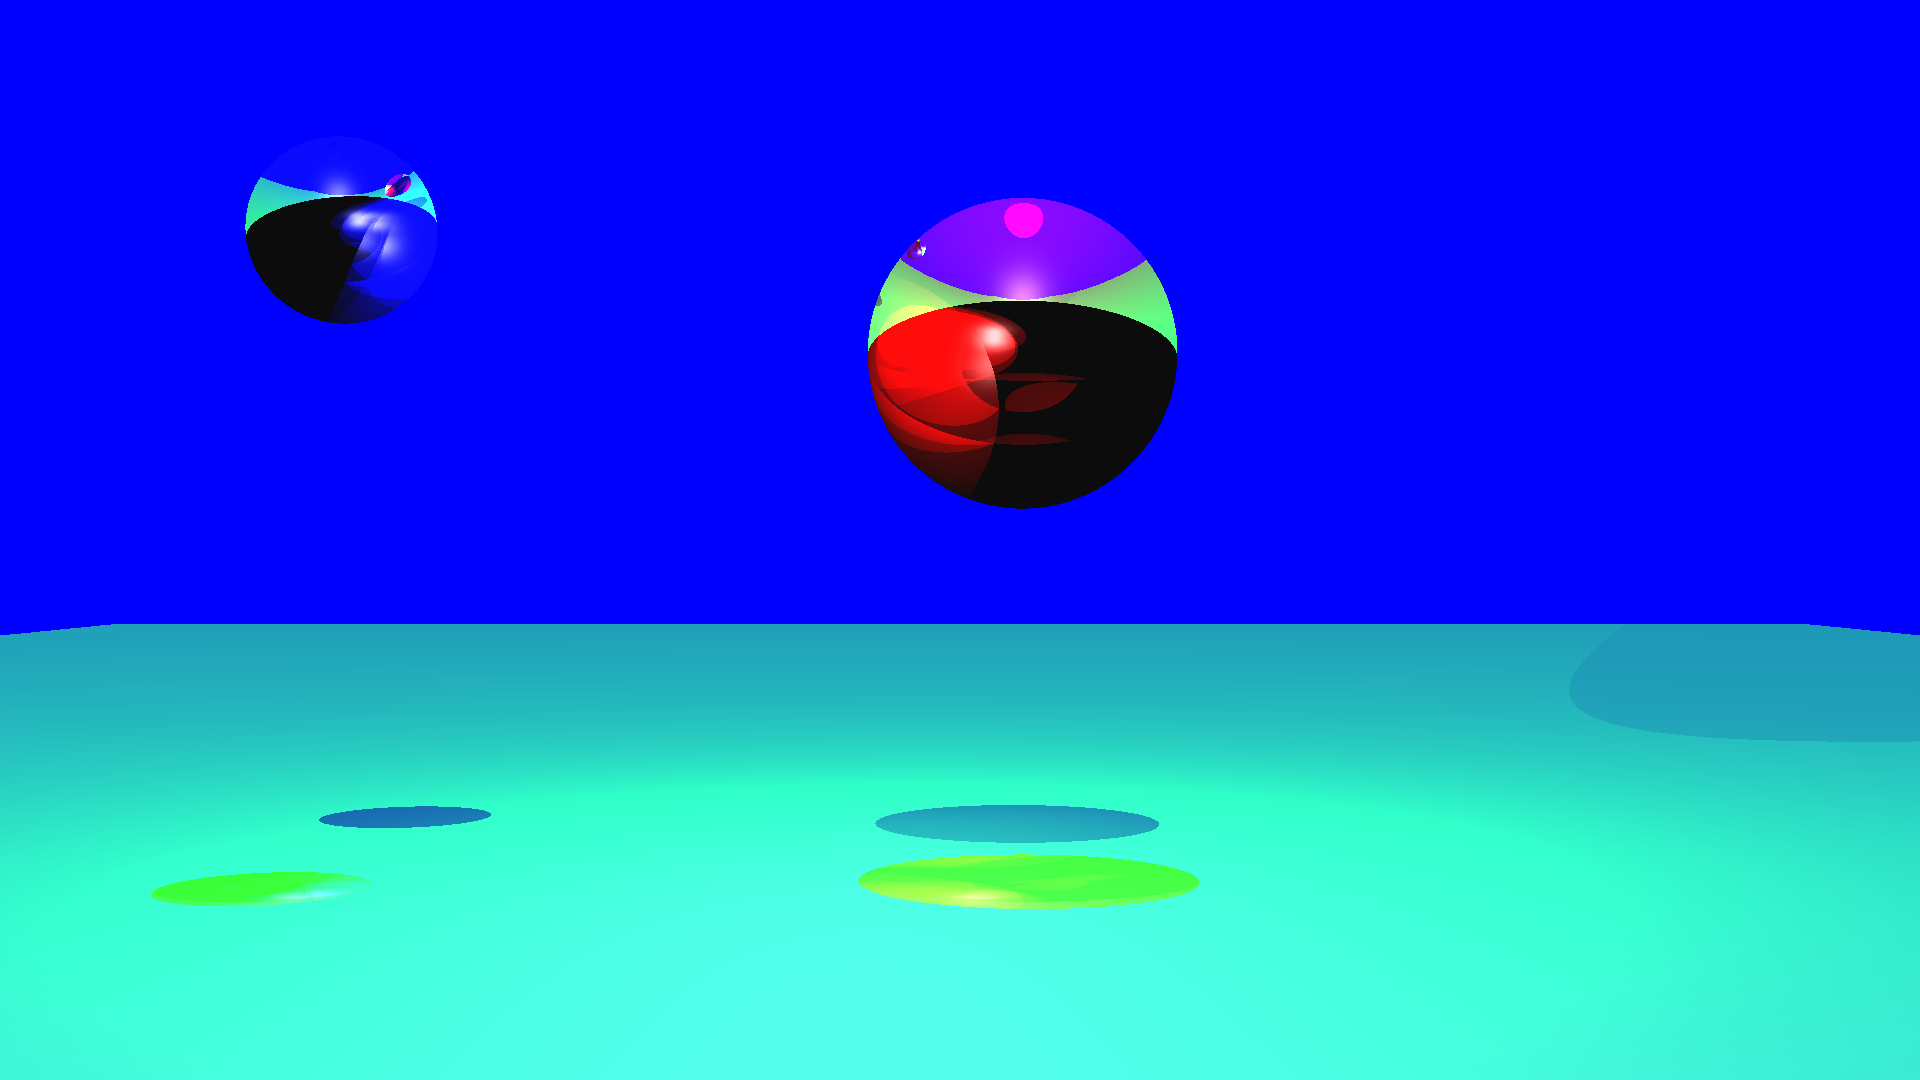
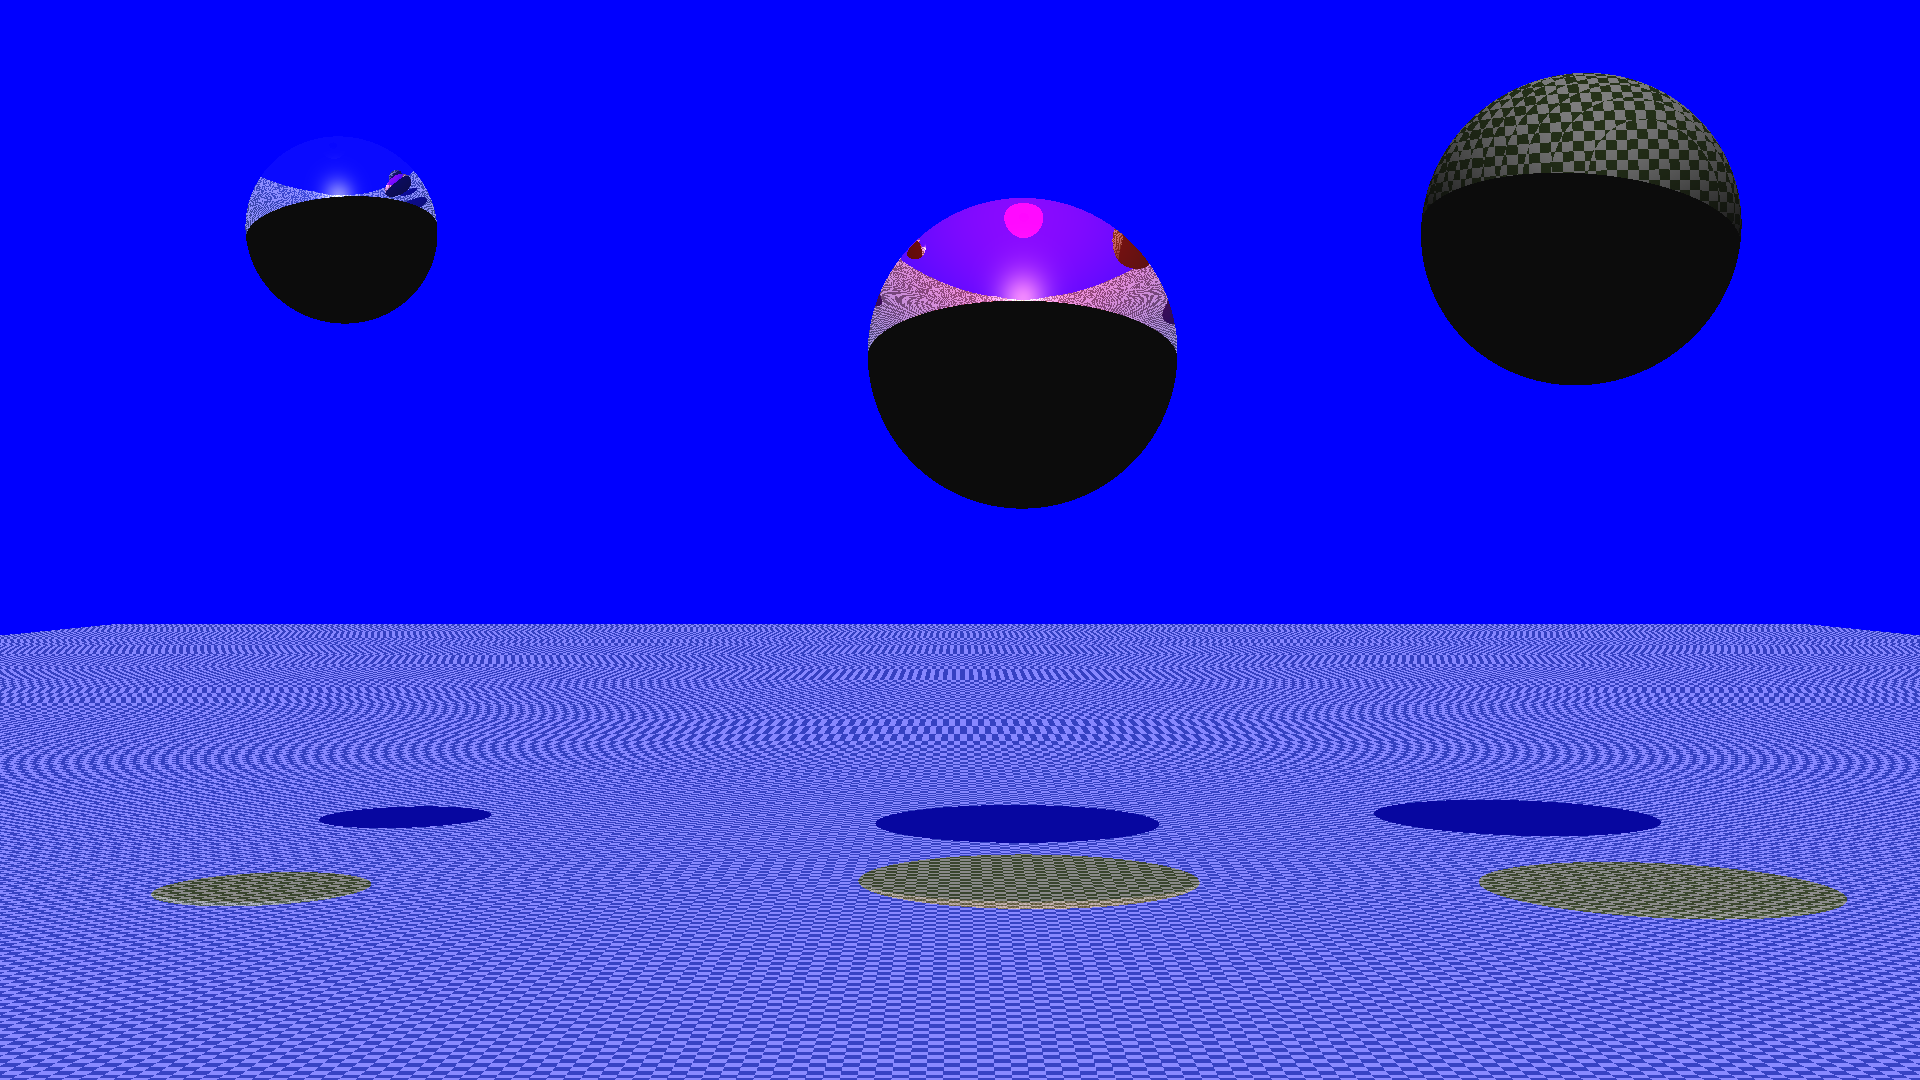
Textures from ROTW WIP

diff --git a/HW1/CPU_PathTracer/src/raytracer.cpp b/HW1/CPU_PathTracer/src/raytracer.cpp
@@ -146,6 +146,8 @@ Intersection* FindIntersection(Scene* scene, Ray& ray)
 	glm::vec3 intersectionPoint(INFINITY, INFINITY, INFINITY);
 	bool hitObjectIsSphere = false;
 	float hitObjectIOR = 1.0f;
+	bool hitHasTexture = false;
+	texture* hitObjectTexture = NULL;
 
 	std::vector<Sphere*> sceneSpheres = scene->GetSpheres();
 
@@ -165,6 +167,8 @@ Intersection* FindIntersection(Scene* scene, Ray& ray)
 			hitObjectEmission = sphere->emission;
 			hitObjectShininess = sphere->shininess;
 			hitObjectIOR = sphere->ior;
+			hitHasTexture = sphere->matTexture != NULL;
+			hitObjectTexture = sphere->matTexture;
 		}
 	}
 
@@ -191,6 +195,9 @@ Intersection* FindIntersection(Scene* scene, Ray& ray)
 			minDist = tTriangle;
 			didHit = true;
 			hitTri = tri;
+			hitHasTexture = tri->matTexture != NULL;
+			hitObjectTexture = tri->matTexture;
+
 		}
 	}
 
@@ -211,7 +218,9 @@ Intersection* FindIntersection(Scene* scene, Ray& ray)
 				hitObjectAmbient,
 				hitObjectNormal,
 				hitSphere->center,
-				hitObjectIOR);
+				hitObjectIOR,
+				hitHasTexture,
+				hitObjectTexture);
 		}
 		else
 		{
@@ -225,7 +234,9 @@ Intersection* FindIntersection(Scene* scene, Ray& ray)
 				hitObjectAmbient,
 				hitObjectNormal,
 				glm::vec3(0, 0, 0),
-				hitObjectIOR);
+				hitObjectIOR,
+				hitHasTexture,
+				hitObjectTexture);
 		}
 	}
 
@@ -239,7 +250,9 @@ Intersection* FindIntersection(Scene* scene, Ray& ray)
 		hitObjectAmbient,
 		hitObjectNormal,
 		glm::vec3(0, 0, 0),
-		1.0f);
+		1.0f,
+		hitHasTexture,
+		NULL);
 }
 
 const int MAX_DEPTH = 3;
@@ -258,6 +271,11 @@ glm::vec3 FindColor(Intersection* intersection, Scene* scene, Camera* camera)
 
 			float nDotL = glm::dot(intersection->hitObjectNormal, normalizedLightDirection);
 			// No attenuation for now
+
+			if (intersection->hitHasTexture)
+			{
+				intersection->hitObjectDiffuse = intersection->hitObjectTexture->value(0, 0, intersection->intersectionPoint);
+			}
 			glm::vec3 lambert = intersection->hitObjectDiffuse * dirLight->colour * std::max(nDotL, 0.0f);
 
 			glm::vec3 halfVec = glm::normalize(normalizedLightDirection + eyeDir);
@@ -310,6 +328,10 @@ glm::vec3 FindColor(Intersection* intersection, Scene* scene, Camera* camera)
 			glm::vec3 normalizedLightDirection = glm::normalize(lightDir);
 			float nDotL = glm::dot(intersection->hitObjectNormal, normalizedLightDirection);
 			// No attenuation for now
+			if (intersection->hitHasTexture)
+			{
+				intersection->hitObjectDiffuse = intersection->hitObjectTexture->value(0, 0, intersection->intersectionPoint);
+			}
 			glm::vec3 lambert = intersection->hitObjectDiffuse * pointLight->colour * std::max(nDotL, 0.0f);
 			glm::vec3 halfVec = glm::normalize(normalizedLightDirection + eyeDir);
 			float nDotH = glm::dot(intersection->hitObjectNormal, halfVec);
@@ -355,7 +377,6 @@ glm::vec3 FindColor(Intersection* intersection, Scene* scene, Camera* camera)
 
 			finalCol += lambert + phong;
 		}
-
 		return finalCol;
 	}
 	else
@@ -399,19 +420,21 @@ int main() {
 	//PointLight* pointLight = new PointLight(glm::vec3(5.0f, -5.0f, 10.0f), glm::vec3(1.0f, 1.0f, 1.0f));
 	//scene->AddPointLight(pointLight);
 
-	// Fill light - softer light from left to reduce harsh shadows
-	PointLight* pointLight2 = new PointLight(glm::vec3(-5.0f, -3.0f, 8.0f), glm::vec3(0.4f, 0.4f, 0.4f));
-	scene->AddPointLight(pointLight2);
+	//// Fill light - softer light from left to reduce harsh shadows
+	//PointLight* pointLight2 = new PointLight(glm::vec3(-5.0f, -3.0f, 8.0f), glm::vec3(0.4f, 0.4f, 0.4f));
+	//scene->AddPointLight(pointLight2);
 
-	// Rim light - optional, adds definition from behind
-	PointLight* pointLight3 = new PointLight(glm::vec3(0.0f, -2.0f, -5.0f), glm::vec3(0.3f, 0.3f, 0.3f));
-	scene->AddPointLight(pointLight3);
+	//// Rim light - optional, adds definition from behind
+	//PointLight* pointLight3 = new PointLight(glm::vec3(0.0f, -2.0f, -5.0f), glm::vec3(0.3f, 0.3f, 0.3f));
+	//scene->AddPointLight(pointLight3);
 
 	// Directional light - simulates sun/general ambient direction
 	DirectionalLight* dirLight = new DirectionalLight(glm::vec3(0.0f, 0.7f, -0.3f), glm::vec3(0.5f, 0.5f, 0.5f));
 	scene->AddDirectionalLight(dirLight);
 	//DirectionalLight* dirLight2 = new DirectionalLight(glm::vec3(0.0f, -0.7f, -0.3f), glm::vec3(0.5f, 0.5f, 0.5f));
 	//scene->AddDirectionalLight(dirLight2);
+
+	auto checker = checker_texture(0.32f, glm::vec3(.2, .3, .1), glm::vec3(.9, .9, .9));
 
 	float triWidth = 100.0f;
 	float triHeight = 10.00f;
@@ -429,8 +452,8 @@ int main() {
 
 	Triangle* tri0 = new Triangle(vert0, vert4, vert7, glm::vec3(1.0f, 0.0f, 0.0f), glm::vec3(0.3, 0.3, 0.3f), glm::vec3(0.15f, 0.05f, 0.0f), 1.00f, glm::vec3(0.3f, 0.3f, 0.3f));
 	Triangle* tri1 = new Triangle(vert0, vert7, vert3, glm::vec3(1.0f, 0.0f, 0.f), glm::vec3(0.3, 0.3, 0.3f), glm::vec3(0.15f, 0.05f, 0.0f), 1.00f, glm::vec3(0.3f, 0.3f, 0.3f));
-	Triangle* tri2 = new Triangle(vert1, vert5, vert6, glm::vec3(0.0f, 1.0f, 0.f), glm::vec3(0.3, 0.3, 0.3f), glm::vec3(1.0f, 1.00f, 0.0f), 1.00f, glm::vec3(0.3f, 0.3f, 0.3f));
-	Triangle* tri3 = new Triangle(vert1, vert6, vert2, glm::vec3(0.0f, 1.0f, 0.f), glm::vec3(0.3, 0.3, 0.3f), glm::vec3(1.00f, 1.00f, 0.0f), 1.00f, glm::vec3(0.3f, 0.3f, 0.3f));
+	Triangle* tri2 = new Triangle(vert1, vert5, vert6, glm::vec3(0.0f, 1.0f, 0.f), glm::vec3(0.3, 0.3, 0.3f), glm::vec3(1.0f, 1.00f, 0.0f), 1.00f, glm::vec3(0.3f, 0.3f, 0.3f), &checker);
+	Triangle* tri3 = new Triangle(vert1, vert6, vert2, glm::vec3(0.0f, 1.0f, 0.f), glm::vec3(0.3, 0.3, 0.3f), glm::vec3(1.00f, 1.00f, 0.0f), 1.00f, glm::vec3(0.3f, 0.3f, 0.3f), &checker);
 	Triangle* tri4 = new Triangle(vert3, vert2, vert6, glm::vec3(0.0f, 0.0f, 1.f), glm::vec3(0.3, 0.3, 0.3f), glm::vec3(0.15f, 0.05f, 0.0f), 1.00f, glm::vec3(0.3f, 0.3f, 0.3f));
 	Triangle* tri5 = new Triangle(vert3, vert6, vert7, glm::vec3(0.0f, 0.0f, 1.f), glm::vec3(0.3, 0.3, 0.3f), glm::vec3(0.15f, 0.05f, 0.0f), 1.00f, glm::vec3(0.3f, 0.3f, 0.3f));
 	Triangle* tri6 = new Triangle(vert0, vert5, vert1, glm::vec3(1.0f, 1.0f, 0.f), glm::vec3(0.3, 0.3, 0.3f), glm::vec3(0.00f, 1.00f, 0.0f), 1.00f, glm::vec3(0.3f, 0.3f, 0.3f));
@@ -459,6 +482,7 @@ int main() {
 	//// -Z
 	//scene->AddTriangle(tri8);
 	//scene->AddTriangle(tri9);
+	scene->AddSphere(new Sphere(glm::vec3(20.0f, -10.0f, 0.0f), 5.0f, glm::vec3(0.5, 0.5, 0.5), glm::vec3(0.0, 0.0, 0.0), glm::vec3(0.5, 0.5, 0.5), 0.0f, glm::vec3(0.5, 0.5, 0.5), 1.0f, &checker));
 
 
 	for (int y = 0; y < IMAGE_HEIGHT; y++)

diff --git a/HW1/CPU_PathTracer/src/Texture.h b/HW1/CPU_PathTracer/src/Texture.h
@@ -1,0 +1,49 @@
+#pragma once
+#include "glm/glm.hpp"
+
+class texture {
+public:
+    virtual ~texture() = default;
+
+    virtual glm::vec3 value(double u, double v, const glm::vec3& p) const = 0;
+};
+
+class solid_color : public texture {
+public:
+    solid_color(const glm::vec3& albedo) : albedo(albedo) {}
+
+    solid_color(double red, double green, double blue) : solid_color(glm::vec3(red, green, blue)) {}
+
+    glm::vec3 value(double u, double v, const glm::vec3& p) const override {
+        return albedo;
+    }
+
+private:
+    glm::vec3 albedo;
+};
+
+class checker_texture : public texture {
+public:
+    checker_texture(double scale, texture* even, texture* odd)
+        : inv_scale(1.0 / scale), even(even), odd(odd) {
+    }
+
+    checker_texture(double scale, const glm::vec3& c1, const glm::vec3& c2)
+        : checker_texture(scale, new solid_color(c1), new solid_color(c2)) {
+    }
+
+    glm::vec3 value(double u, double v, const glm::vec3& p) const override {
+        auto xInteger = int(std::floor(inv_scale * p.x));
+        auto yInteger = int(std::floor(inv_scale * p.y));
+        auto zInteger = int(std::floor(inv_scale * p.z));
+
+        bool isEven = (xInteger + yInteger + zInteger) % 2 == 0;
+
+        return isEven ? even->value(u, v, p) : odd->value(u, v, p);
+    }
+
+private:
+    double inv_scale;
+    texture* even;
+    texture* odd;
+};

diff --git a/HW1/CPU_PathTracer/src/Triangle.h b/HW1/CPU_PathTracer/src/Triangle.h
@@ -1,10 +1,11 @@
 #pragma once
 #include "glm/glm.hpp"
+#include "Texture.h"
 
 class Triangle
 {
 public:
-	Triangle(glm::vec3 vertex0, glm::vec3 vertex1, glm::vec3 vertex2, glm::vec3 diffuse, glm::vec3 specular, glm::vec3 emission, float shininess, glm::vec3 ambient)
+	Triangle(glm::vec3 vertex0, glm::vec3 vertex1, glm::vec3 vertex2, glm::vec3 diffuse, glm::vec3 specular, glm::vec3 emission, float shininess, glm::vec3 ambient, texture* matTex = NULL)
 		:
 		vertex0(vertex0),
 		vertex1(vertex1),
@@ -13,7 +14,8 @@ public:
 		specular(specular),
 		emission(emission),
 		shininess(shininess),
-		ambient(ambient)
+		ambient(ambient),
+		matTexture(matTex)
 
 	{
 		normalA = normalize(cross((vertex2 - vertex0), (vertex1 - vertex0)));
@@ -38,5 +40,5 @@ public:
 	glm::vec3 normal;
 	glm::vec3 diffuse, specular, emission, ambient;
 	float shininess;
-
+	texture* matTexture;
 };

diff --git a/HW1/CPU_PathTracer/src/Intersection.h b/HW1/CPU_PathTracer/src/Intersection.h
@@ -1,5 +1,6 @@
 #pragma once
 #include "glm/glm.hpp"
+#include "Texture.h"
 
 class Intersection
 {
@@ -13,7 +14,9 @@ public:
 		glm::vec3 hitObjectAmbient,
 		glm::vec3 hitObjectNormal,
 		glm::vec3 center,
-		float hitObjectIOR
+		float hitObjectIOR,
+		bool hitHasTexture = false,
+		texture* hitObjectTexture = NULL
 	)
 		:
 		didHit(didHit),
@@ -25,7 +28,9 @@ public:
 		hitObjectAmbient(hitObjectAmbient),
 		hitObjectNormal(hitObjectNormal),
 		center(center),
-		hitObjectIOR(hitObjectIOR)
+		hitObjectIOR(hitObjectIOR),
+		hitHasTexture(hitHasTexture),
+		hitObjectTexture(hitObjectTexture)
 	{
 	}
 
@@ -49,4 +54,8 @@ public:
 	glm::vec3 center;
 	glm::vec3 reflectionNormal;
 	float hitObjectIOR = 1.0f;
+	float u;
+	float v;
+	bool hitHasTexture = false;
+	texture* hitObjectTexture = NULL;
 };

diff --git a/HW1/CPU_PathTracer/src/Sphere.h b/HW1/CPU_PathTracer/src/Sphere.h
@@ -1,10 +1,11 @@
 #pragma once
 #include "glm/glm.hpp"
+#include "Texture.h"
 
 class Sphere
 {
 public:
-	Sphere(glm::vec3 center, float radius, glm::vec3 diffuse, glm::vec3 specular, glm::vec3 emission, float shininess, glm::vec3 ambient, float ior)
+	Sphere(glm::vec3 center, float radius, glm::vec3 diffuse, glm::vec3 specular, glm::vec3 emission, float shininess, glm::vec3 ambient, float ior, texture* matTex = NULL)
 		:
 		center(center),
 		radius(radius),
@@ -13,7 +14,8 @@ public:
 		emission(emission),
 		shininess(shininess),
 		ambient(ambient),
-		ior(ior)
+		ior(ior),
+		matTexture(matTex)
 	{
 	}
 
@@ -36,4 +38,5 @@ public:
 	glm::vec3 diffuse, specular, emission, ambient;
 	float shininess;
 	float ior;
+	texture* matTexture;
 };
